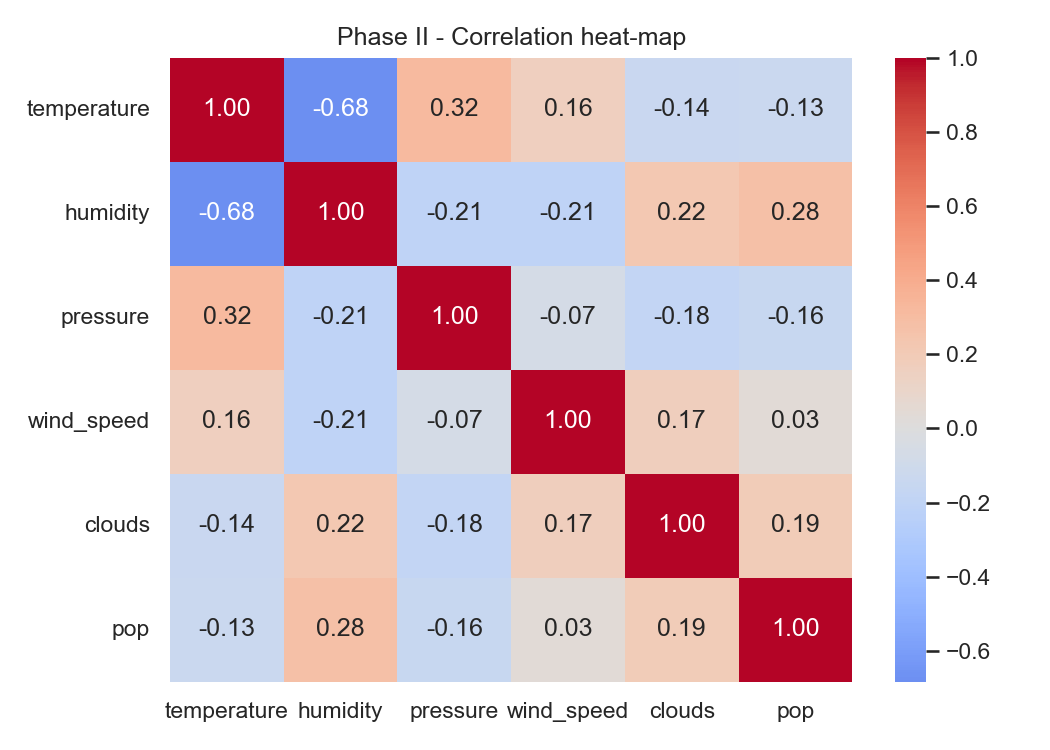
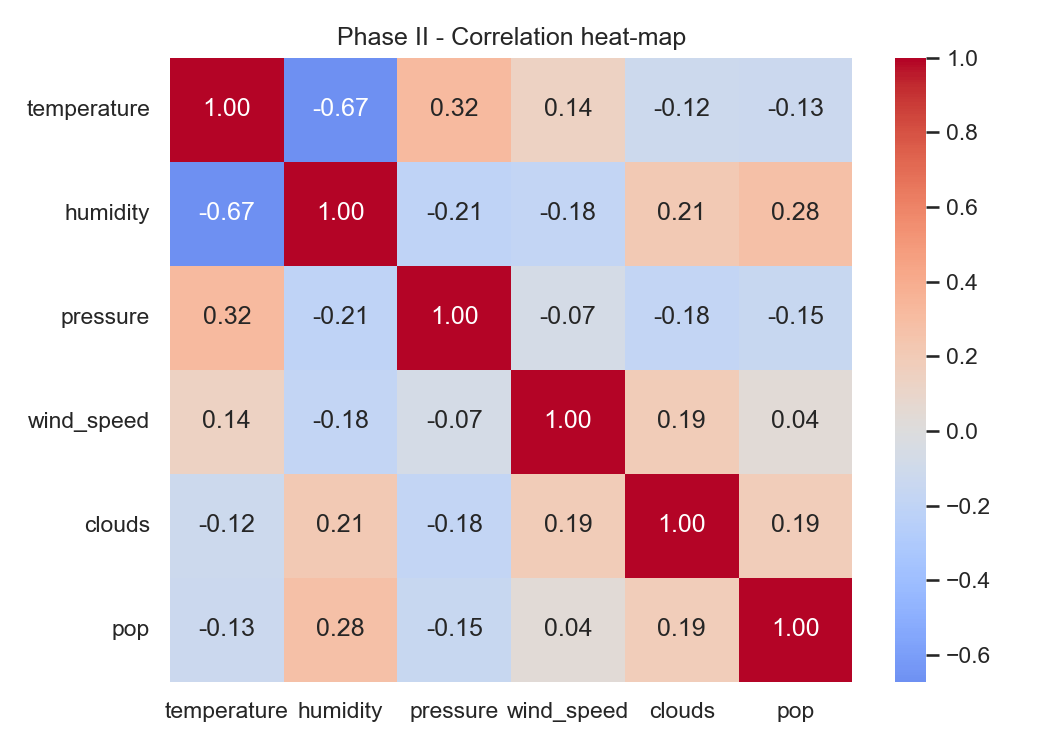
some updates

diff --git a/weather_data_scraper.py b/weather_data_scraper.py
@@ -33,10 +33,11 @@ def get_resilient_session():
     return session
 
 def fetch_historical_weather():
-    # Set timeframe to exactly 31 days (Yields ~20,088 rows)
-    end_date = datetime.now().date()
-    start_date = end_date - timedelta(days=31) 
-    
+    # Open-Meteo Archive (ERA5) lags ~1 day behind real time, so we shift the
+    # end date back by 2 days to stay safely inside the allowed range.
+    end_date = datetime.now().date() - timedelta(days=2)
+    start_date = end_date - timedelta(days=31)
+
     archive_url = "https://archive-api.open-meteo.com/v1/archive"
     session = get_resilient_session()
     all_city_dataframes = []

diff --git a/README.md b/README.md
@@ -29,15 +29,15 @@ A Machine Learning project that builds a complete, reproducible pipeline — fro
 
 ## Table of Contents
 
-1. [Project Goals](#-1-project-goals)
-2. [Technologies Used](#-2-technologies-used)
-3. [Installation and Setup](#-3-installation-and-setup)
-4. [Dataset Description](#-4-dataset-description)
-5. [PHASE I — Model Preparation](#-phase-i--model-preparation)
-6. [Dataset Overview and Exploratory Insights](#-dataset-overview-and-exploratory-insights)
-7. [Selected Algorithm](#-selected-algorithm)
-8. [PHASE II — Model Training](#-phase-ii--model-training)
-9. [PHASE III — Analysis and Evaluation (planned)](#-phase-iii--analysis-and-evaluation-planned)
+1. [Technologies Used](#technologies-used)
+2. [Installation and Setup](#installation-and-setup)
+3. [Dataset Description](#dataset-description)
+4. [About the Project](#about-the-project)
+5. [PHASE I — Model Preparation](#phase-i--model-preparation)
+6. [Dataset Overview and Exploratory Insights](#dataset-overview-and-exploratory-insights)
+7. [Selected Algorithm](#selected-algorithm)
+8. [PHASE II — Model Training](#phase-ii--model-training)
+9. [PHASE III — Analysis and Evaluation (planned)](#phase-iii--analysis-and-evaluation-planned)
 
 ### Project Phases (per course structure)
 
@@ -49,7 +49,7 @@ A Machine Learning project that builds a complete, reproducible pipeline — fro
 
 ---
 
-## 2. Technologies Used
+## Technologies Used
 
 | Category | Tool / Library | Purpose |
 |----------|----------------|---------|
@@ -64,7 +64,7 @@ A Machine Learning project that builds a complete, reproducible pipeline — fro
 
 ---
 
-## 3. Installation and Setup
+## Installation and Setup
 
 ### Prerequisites
 - Python ≥ 3.10
@@ -75,7 +75,7 @@ A Machine Learning project that builds a complete, reproducible pipeline — fro
 
 ```bash
 # 1. Clone the repository
-git clone https://github.com/<user>/MachineLearning.git
+git clone https://github.com/vesecikaaqii/MachineLearning.git
 cd MachineLearning
 
 # 2. Create a virtual environment 
@@ -103,15 +103,16 @@ models/
 └── scaler_phase2.pkl       
 
 reports/
-├── phase2_training_summary.json             
-├── phase2_correlation_heatmap.png  
-├── phase2_feature_importance.png   
-└── phase2_pred_vs_true.png         
+├── phase2_training_summary.json
+├── phase2_training_log.txt
+├── phase2_correlation_heatmap.png
+├── phase2_feature_importance.png
+└── phase2_pred_vs_true.png
 ```
 
 ---
 
-## 4. Dataset Description
+## Dataset Description
 
 | Property | Value |
 |----------|-------|
@@ -288,12 +289,13 @@ A complete, clean, and well-structured foundation for Kosovo weather modelling:
 
 ### Temperature Analysis
 
-| Category | Result |
-|----------|--------|
-| Warmest cities | Pristina, Prizren |
-| Coldest cities | Dragash, Deçan |
-| Average difference | ~7 °C – 10 °C |
-| Observed phenomenon | Urban Heat Island effect |
+| Metric | Value |
+|--------|-------|
+| Overall minimum (°C) | −2.30 |
+| Overall mean (°C) | 8.82 |
+| Overall maximum (°C) | 23.70 |
+| Standard deviation (°C) | 4.93 |
+| Expected regional spread | mountain municipalities (e.g. Dragash, Deçan) tend to record the coldest values; lower-altitude cities (e.g. Gjakova, Prizren) the warmest — a per-city breakdown is produced in Phase III. |
 
 ### Wind and Pressure Analysis
 
@@ -361,7 +363,7 @@ Three visualisations are produced during training:
   <tr>
     <td align="center"><sub>Correlations across meteorological features</sub></td>
     <td align="center"><sub>Model predictions against the ideal diagonal</sub></td>
-    <td align="center"><sub>Humidity, pressure, and clouds dominate</sub></td>
+    <td align="center"><sub>Humidity and seasonal/diurnal cycles dominate</sub></td>
   </tr>
 </table>
 
@@ -471,7 +473,35 @@ The points cluster tightly along the ideal diagonal (dashed line) — the model 
 
 # PHASE III — Analysis and Evaluation (planned)
 
-Phase III is **not yet executed**. It is structured as a sequence of three work-streams: **(A) rigorous evaluation** of the Phase II baseline, **(B) feature engineering + hyperparameter re-training**, and **(C) quantitative comparison** against both the Phase II model and simple reference baselines.
+## Objective of the Phase
+
+Phase III closes the ML workflow started in Phases I–II: it **rigorously evaluates** the Phase II Random Forest, **re-trains** it with tuned hyperparameters and engineered features, **compares** the outcome against trivial baselines and the Phase II model itself, and **interprets** what the improvements mean in practice for Kosovo.
+
+> **Important conceptual shift in Phase III.** The Phase II model is a **diagnostic "nowcast"**: it estimates the temperature at hour `t` from other meteorological variables measured **at the same hour `t`** (humidity, pressure, wind, clouds). It never looks into the past, so it cannot predict the future either — feeding it tomorrow's humidity/pressure isn't possible, because those values don't exist yet. Phase III turns the model into a **true short-horizon forecaster** by adding **lag features** (`temp_lag_1h`, `temp_lag_24h`, …) and evaluating on a **chronological hold-out window** (train on the first ~25 days, test on the last ~6 days). This is the single most important upgrade between Phase II and Phase III: from "given these simultaneous inputs, what is the temperature now?" to "given the last N hours, what is the temperature at `t+1`?".
+
+### Scope split between Phase II and Phase III
+
+To set realistic expectations, the two phases address complementary problems on non-overlapping time horizons:
+
+| Dimension | Phase II (current) | Phase III (planned) |
+|-----------|--------------------|---------------------|
+| **Problem** | Diagnostic reconstruction | True short-horizon forecasting |
+| **Time horizon** | Any historical hour up to **yesterday** (−1 day, bounded by the ~1-day ERA5 lag) | **+1 h to +24 h** ahead of the last observed hour |
+| **Input** | Simultaneous meteorological variables at hour `t` | History of the last N hours (lag features) |
+| **Output** | `temp(t)` given `features(t)` | `temp(t + h)` for `h ∈ {1, 3, 6, 12, 24}` hours ahead |
+| **Train/test split** | Random 80 / 20 | Chronological — train on the first ~25 days, test on the last ~6 days |
+| **Realistic MAE** | ~1.08 °C (achieved) | ~0.3–0.5 °C at `+1 h`, degrading to ~2–2.5 °C at `+24 h` |
+| **Explicitly out of scope** | Future predictions | Multi-day / multi-week / monthly forecasts (require multi-year data + sequence models — see §I. Future Work) |
+
+This split lets Phase II serve as a *sanity baseline* (how well can we recover temperature from same-hour inputs?) and Phase III as the actual *operational forecaster* (how well can we predict the next few hours?). Monthly or seasonal prediction is deliberately **not** a goal of this project.
+
+The phase is structured as a sequence of four work-streams that mirror the rhythm of Phase II (objective → approach → preprocessing extensions → results → conclusions): **(A) rigorous evaluation**, **(B) feature engineering + hyperparameter re-training**, **(C) quantitative comparison**, and **(D) discussion, conclusions, and outlook**.
+
+- **Evaluation script (planned):** [`phase3_evaluation.py`](phase3_evaluation.py)
+- **Re-training script (planned):** [`phase3_retraining.py`](phase3_retraining.py)
+- **Machine-readable summary (planned):** [`reports/phase3_evaluation_summary.json`](reports/phase3_evaluation_summary.json)
+
+> **Status:** Phase III is **not yet executed**. The sections below describe the full protocol that will be followed; numerical entries marked `TBD` are placeholders that will be filled in after the Phase III scripts are run.
 
 ## A. In-Depth Evaluation of the Phase II Baseline
 
@@ -536,10 +566,3 @@ Every Phase III model is compared not only to the Phase II Random Forest but als
 | RF — tuned (B.2)   | TBD | TBD | TBD | TBD | hyperparameter tuning only |
 | RF — tuned + lag features | TBD | TBD | TBD | TBD | + B.1 lag family |
 | **RF — final (tuned + all features)** | **TBD** | **TBD** | **TBD** | **TBD** | Phase III winner |
-
-## D. Deliverables & Outlook
-
-- `phase3_evaluation.py` — runs A.1–A.7 on the Phase II model and saves plots to `reports/`.
-- `phase3_retraining.py` — runs B.1–B.2 and saves the final model to `models/rf_model_v2.pkl`.
-- `reports/phase3_evaluation_summary.json` — all metrics in machine-readable form.
-- Updated README section with the populated Table C.2 and an interpretation of *who benefits* from the improvement (agriculture, energy demand, public-health advisories).
